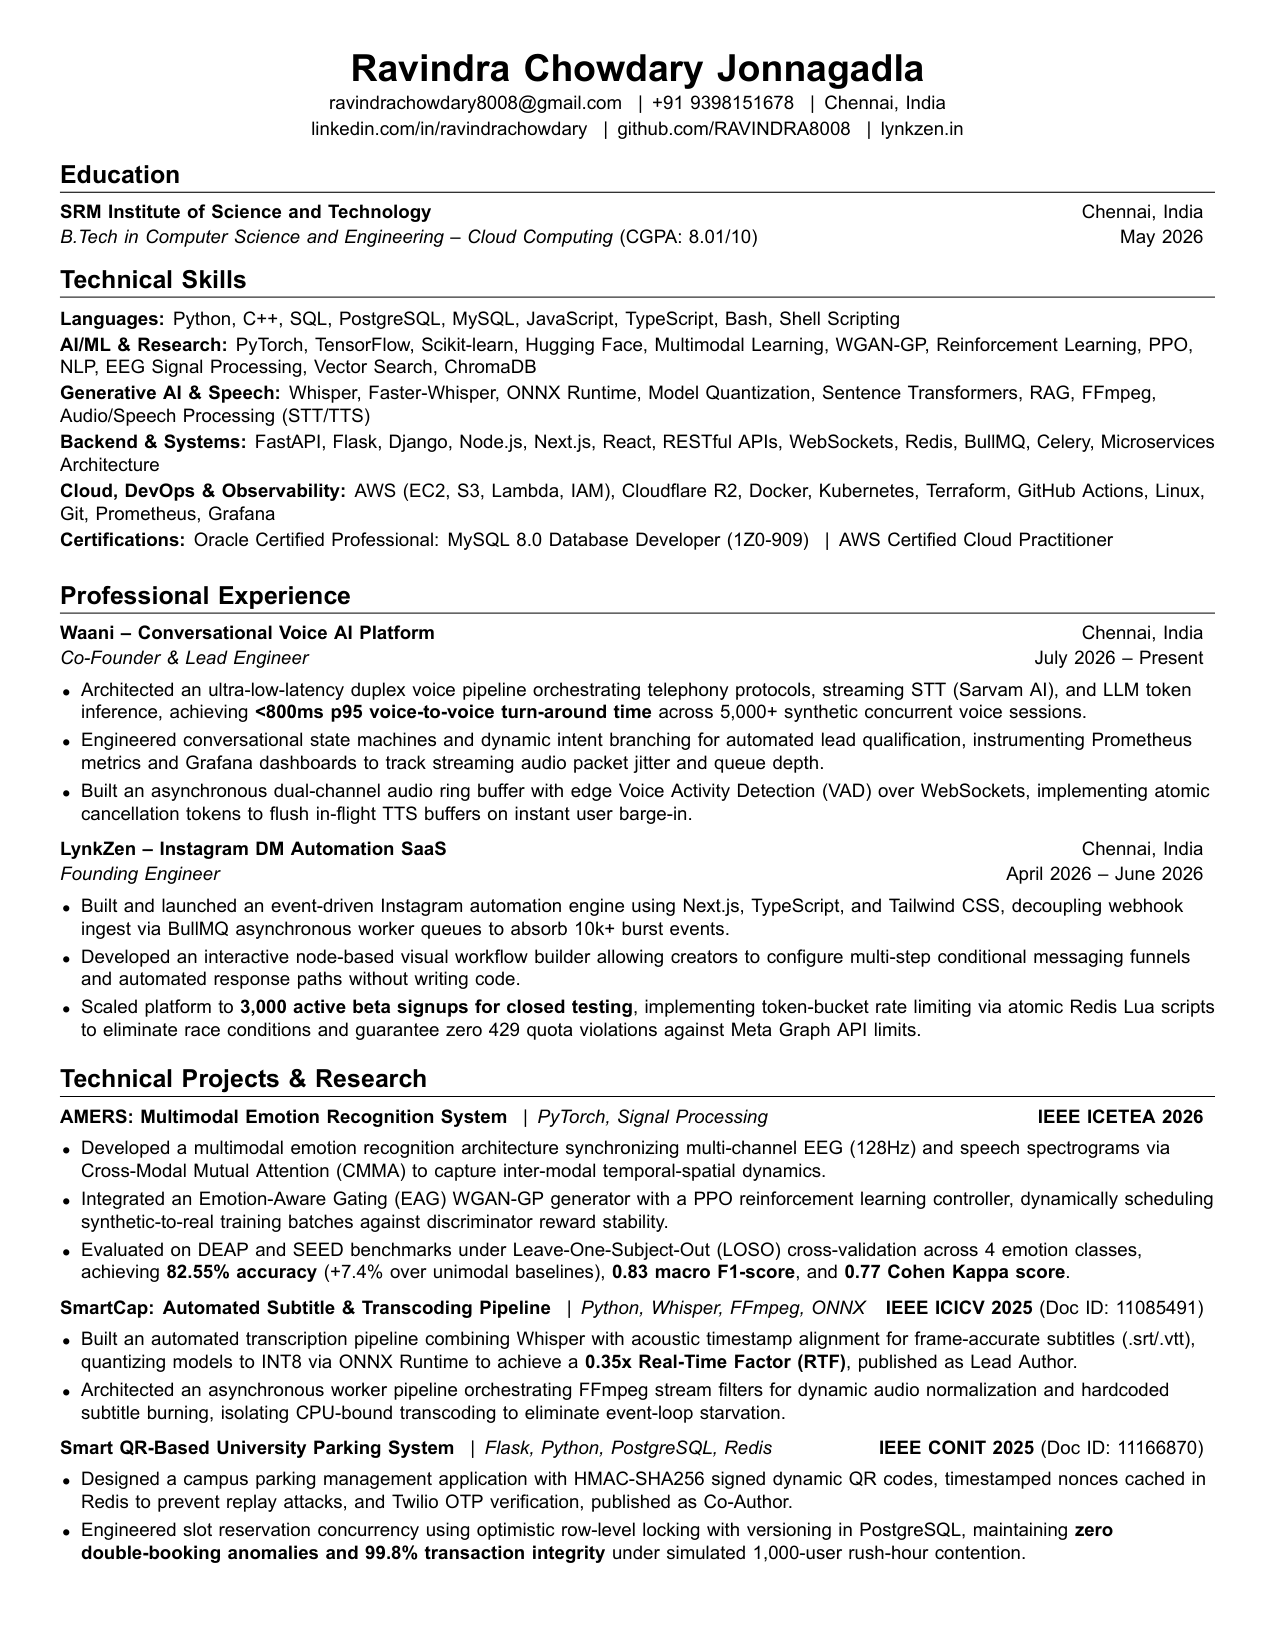
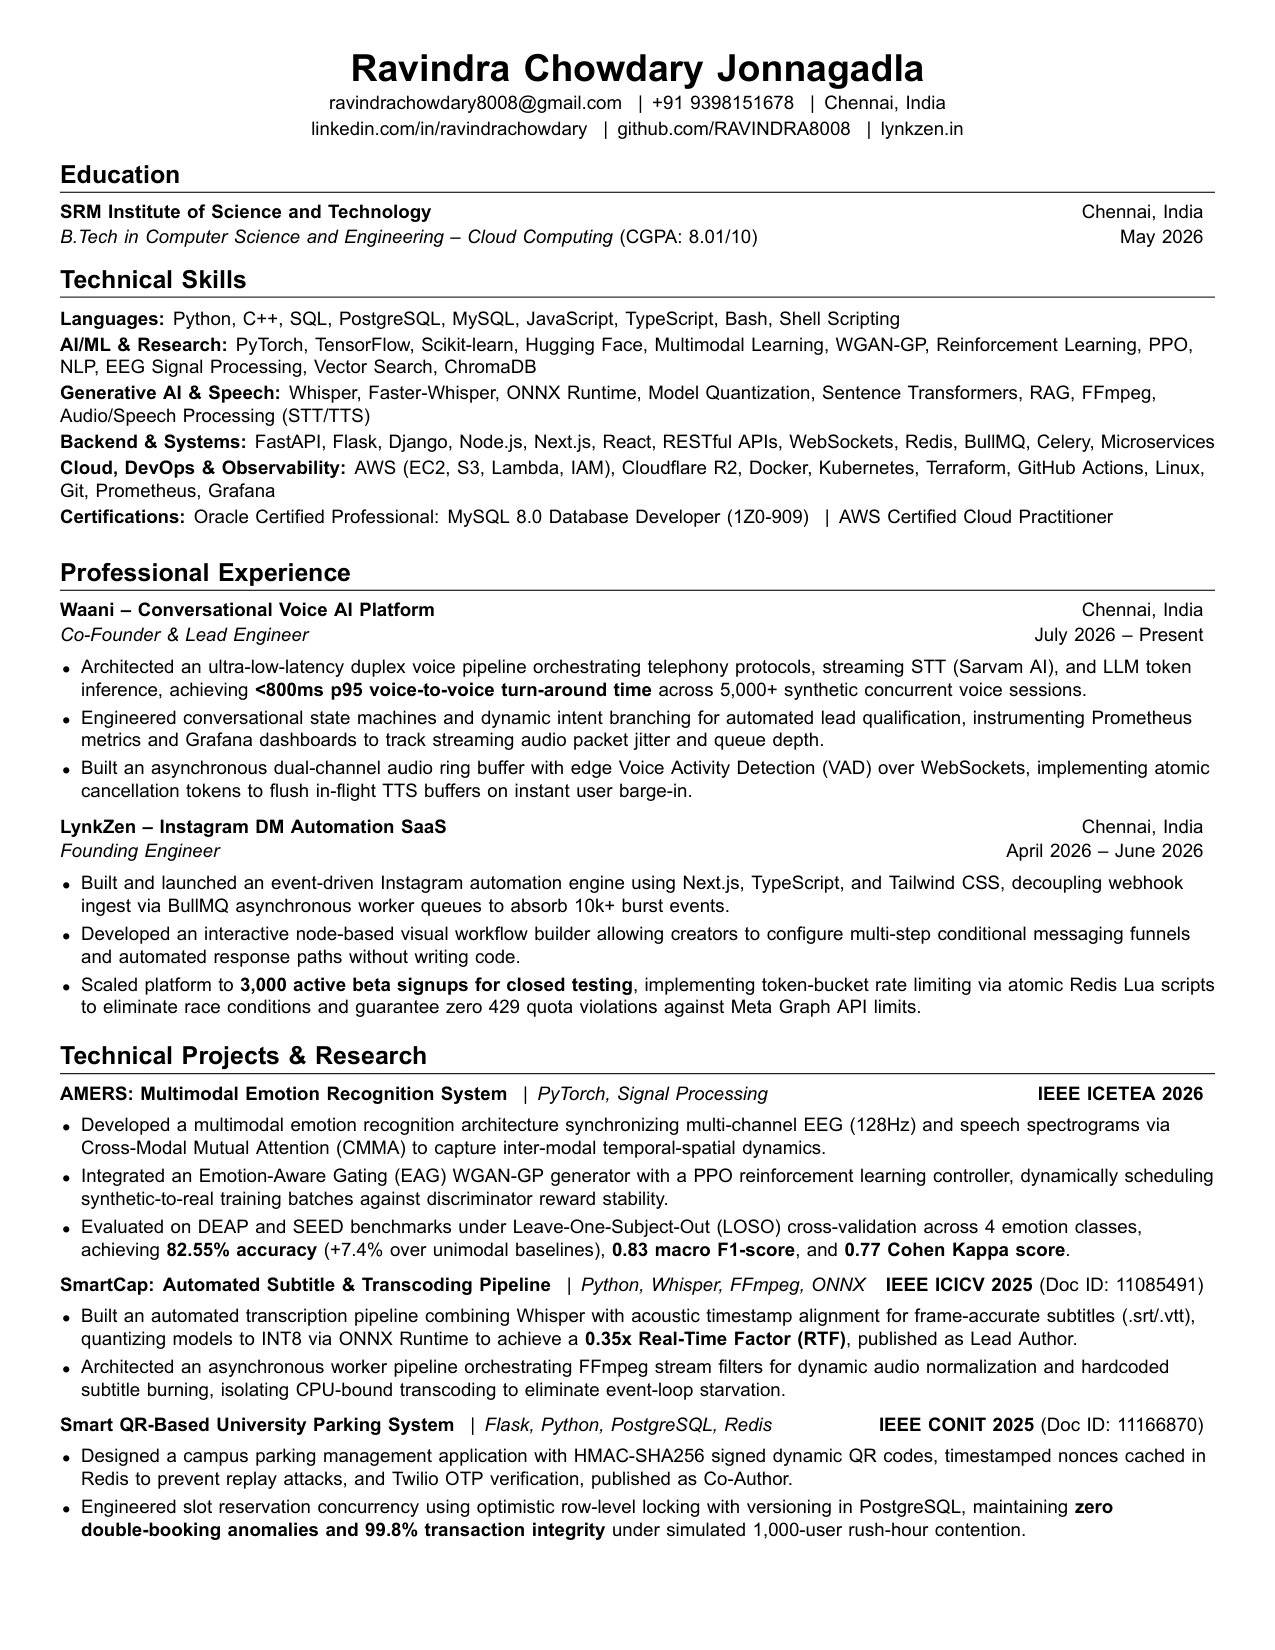
Polish typography: eliminate orphans, balance skills lines, and verify 100% ATS token extraction

Changed region(s): [[0.0306, 0.2782, 0.9482, 0.9582]]

diff --git a/resume.tex b/resume.tex
@@ -106,7 +106,7 @@
      \textbf{Languages:} Python, C++, SQL, PostgreSQL, MySQL, JavaScript, TypeScript, Bash, Shell Scripting \\ \vspace{1.5pt}
      \textbf{AI/ML \& Research:} PyTorch, TensorFlow, Scikit-learn, Hugging Face, Multimodal Learning, WGAN-GP, Reinforcement Learning, PPO, NLP, EEG Signal Processing, Vector Search, ChromaDB \\ \vspace{1.5pt}
      \textbf{Generative AI \& Speech:} Whisper, Faster-Whisper, ONNX Runtime, Model Quantization, Sentence Transformers, RAG, FFmpeg, Audio/Speech Processing (STT/TTS) \\ \vspace{1.5pt}
-     \textbf{Backend \& Systems:} FastAPI, Flask, Django, Node.js, Next.js, React, RESTful APIs, WebSockets, Redis, BullMQ, Celery, Microservices Architecture \\ \vspace{1.5pt}
+     \textbf{Backend \& Systems:} FastAPI, Flask, Django, Node.js, Next.js, React, RESTful APIs, WebSockets, Redis, BullMQ, Celery, Microservices \\ \vspace{1.5pt}
      \textbf{Cloud, DevOps \& Observability:} AWS (EC2, S3, Lambda, IAM), Cloudflare R2, Docker, Kubernetes, Terraform, GitHub Actions, Linux, Git, Prometheus, Grafana \\ \vspace{1.5pt}
      \textbf{Certifications:} \href{https://catalog-education.oracle.com/pls/certview/sharebadge?id=612702728476686D7B2D24830AC8D7769D0C9345E82B11C94343869FEEB8DF92}{Oracle Certified Professional: MySQL 8.0 Database Developer (1Z0-909)} \enspace|\enspace \href{https://www.credly.com/badges/3dc45737-a240-4ebd-865c-ac932ab9d71c/public_url}{AWS Certified Cloud Practitioner}
     }}
